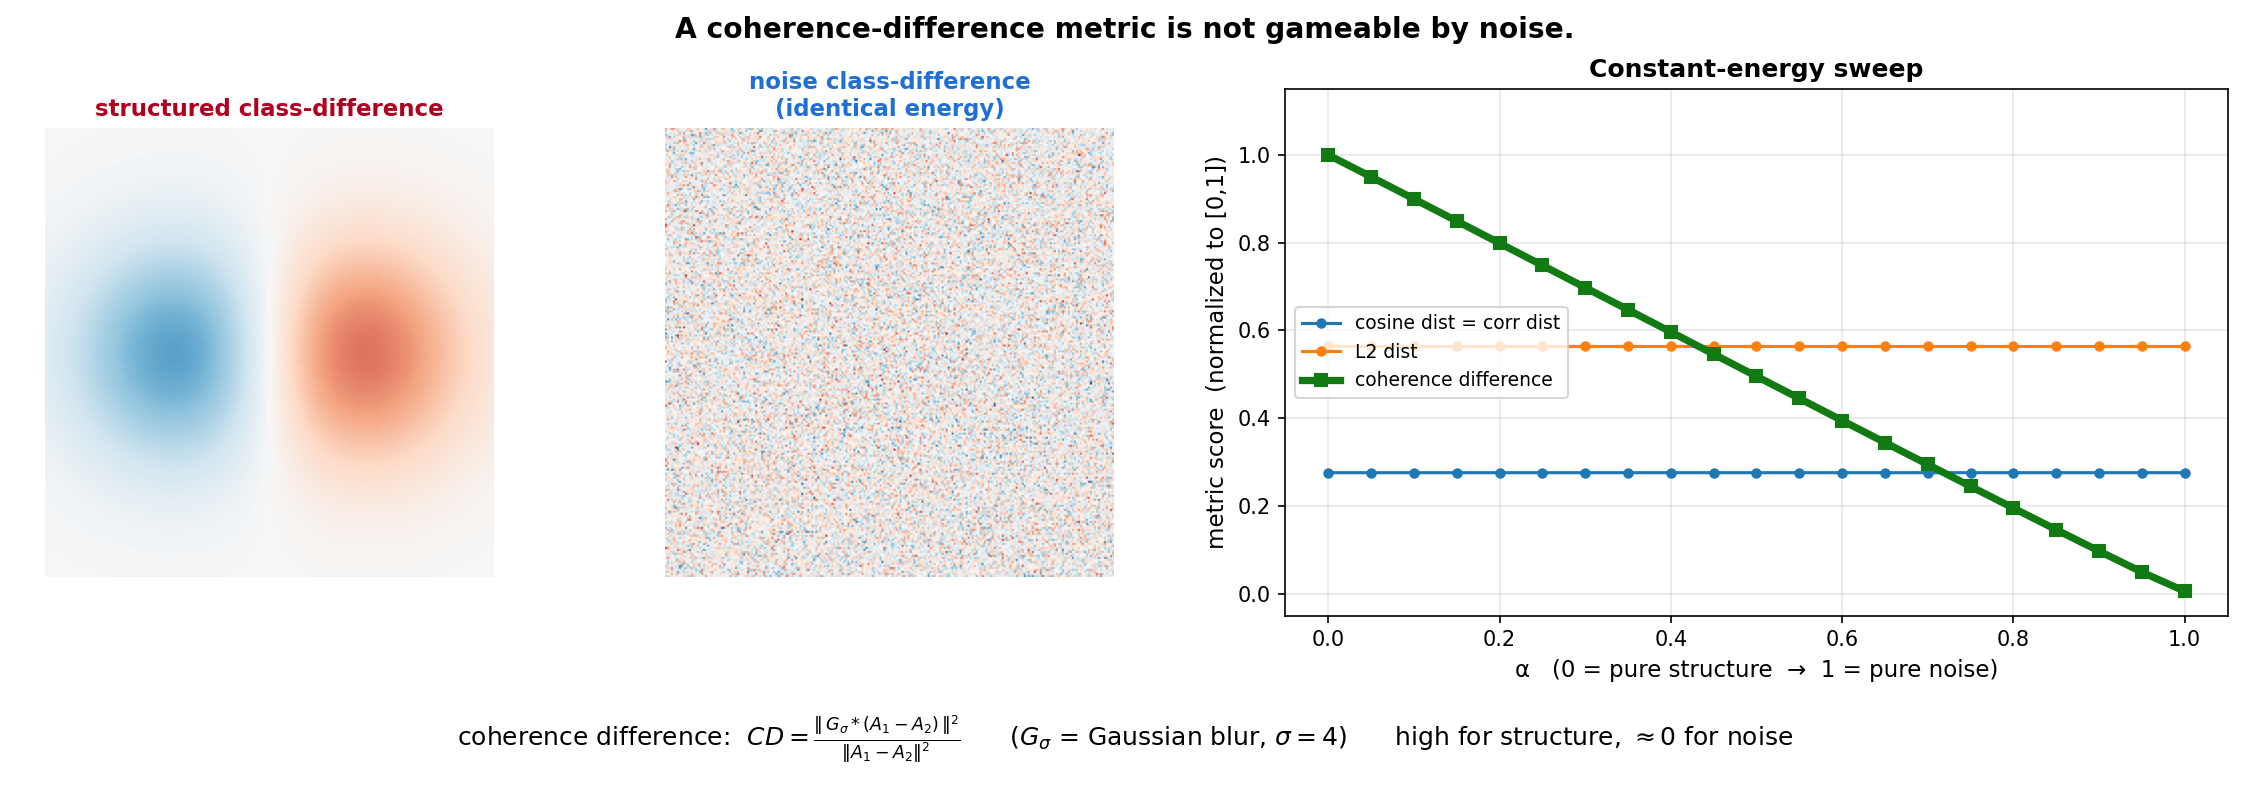
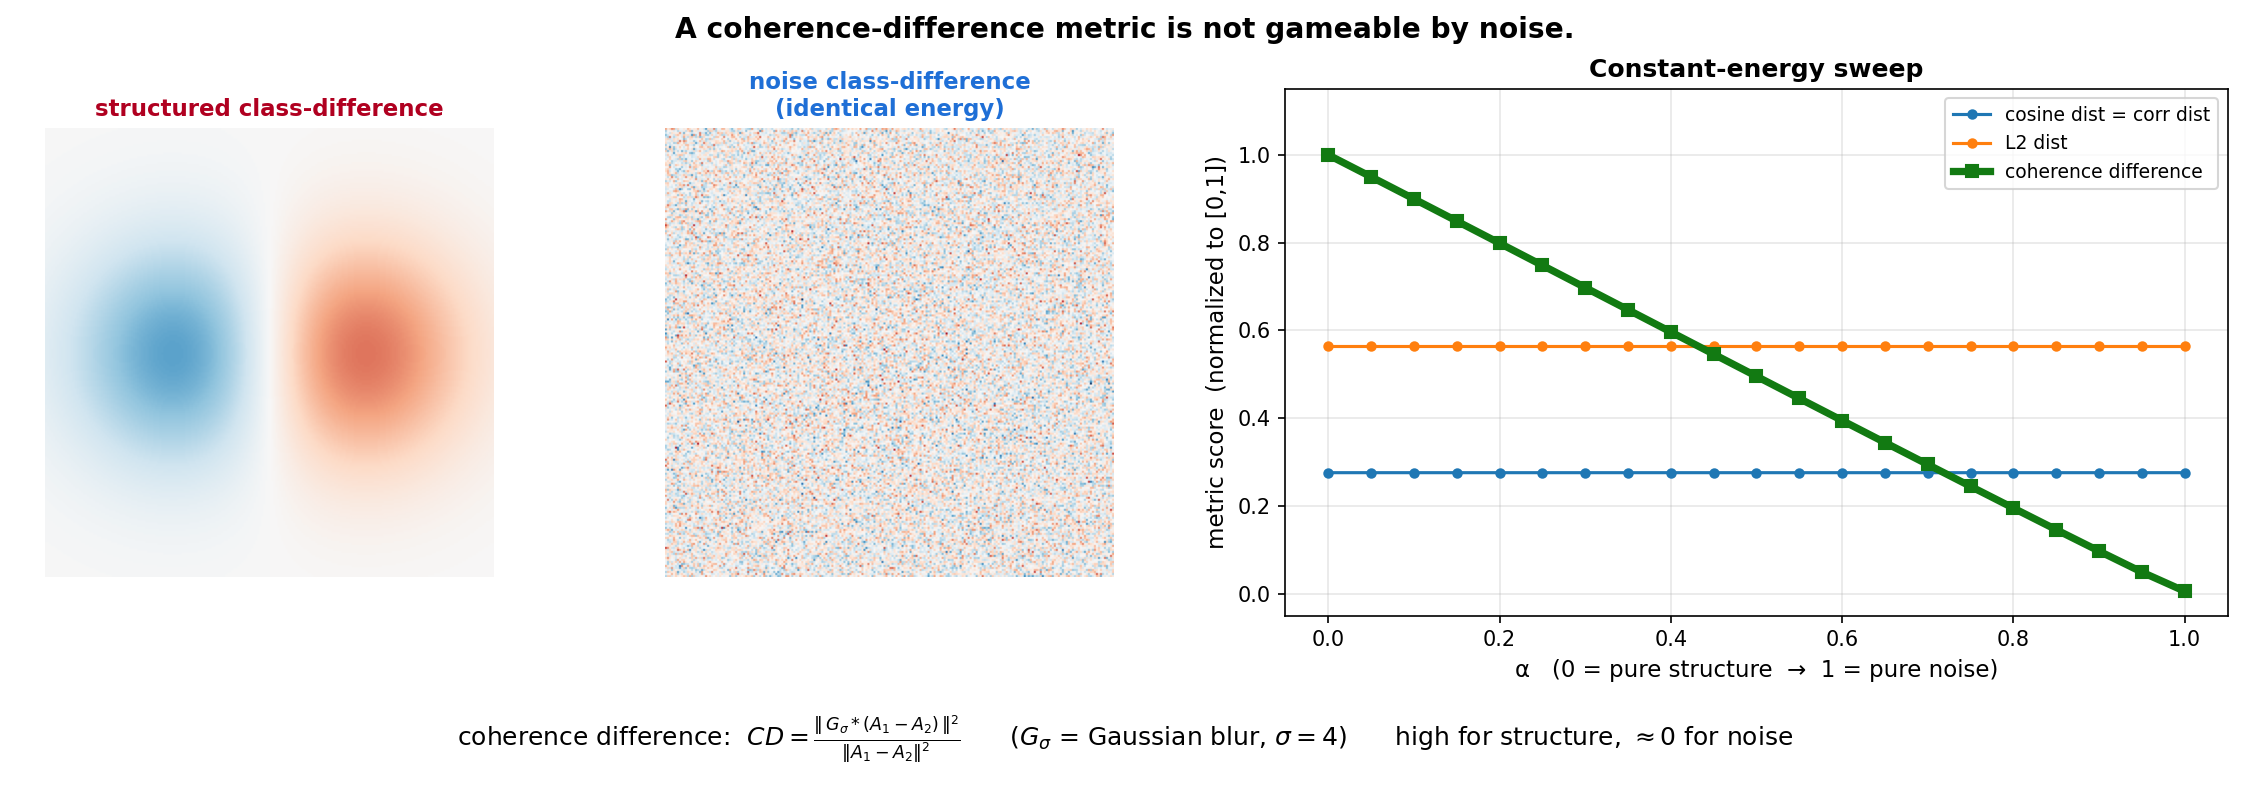
Move legends to upper-right corner (clear of the plotted lines)

Changed region(s): [[0.56, 0.3704, 0.7156, 0.4938], [0.8711, 0.1235, 0.9956, 0.2469]]

diff --git a/infocube-main/diff_metric_blindness.py b/infocube-main/diff_metric_blindness.py
@@ -99,7 +99,7 @@ axs.axhline(1.0, color='k', ls='--', lw=1.8, label='random-pair baseline')
 axs.set_xlabel('α   (0 = pure structure  →  1 = pure noise)', fontsize=11)
 axs.set_ylabel('difference score / random-pair baseline', fontsize=11); axs.set_ylim(0, 1.15)
 axs.set_title('Constant-energy sweep', fontsize=12, fontweight='bold')
-axs.grid(alpha=0.3); axs.legend(fontsize=9, loc='center right')
+axs.grid(alpha=0.3); axs.legend(fontsize=9, loc='upper right')
 axs.text(0.03, 0.06,
          'ENERGY (magnitude) held CONSTANT along the sweep.\nThe only variable is spatial coherence.\n'
          '→ magnitude cannot explain the flat line;\n   the metric is blind to coherence itself.',
@@ -135,7 +135,7 @@ axs2.plot(alphas, coh_curve/(coh_curve[0]+EPS), '-s', color='#127a12', lw=3.5, m
 axs2.set_xlabel('α   (0 = pure structure  →  1 = pure noise)', fontsize=11)
 axs2.set_ylabel('metric score  (normalized to [0,1])', fontsize=11); axs2.set_ylim(-0.05, 1.15)
 axs2.set_title('Constant-energy sweep', fontsize=12, fontweight='bold')
-axs2.grid(alpha=0.3); axs2.legend(fontsize=9, loc='center left')
+axs2.grid(alpha=0.3); axs2.legend(fontsize=9, loc='upper right')
 fig2.suptitle('A coherence-difference metric is not gameable by noise.', fontsize=13.5, fontweight='bold')
 fig2.text(0.5, 0.055, r"coherence difference:  $CD=\frac{\|\,G_\sigma * (A_1-A_2)\,\|^{2}}{\|A_1-A_2\|^{2}}$"
           r"      ($G_\sigma$ = Gaussian blur, $\sigma=4$)      high for structure, $\approx 0$ for noise",
